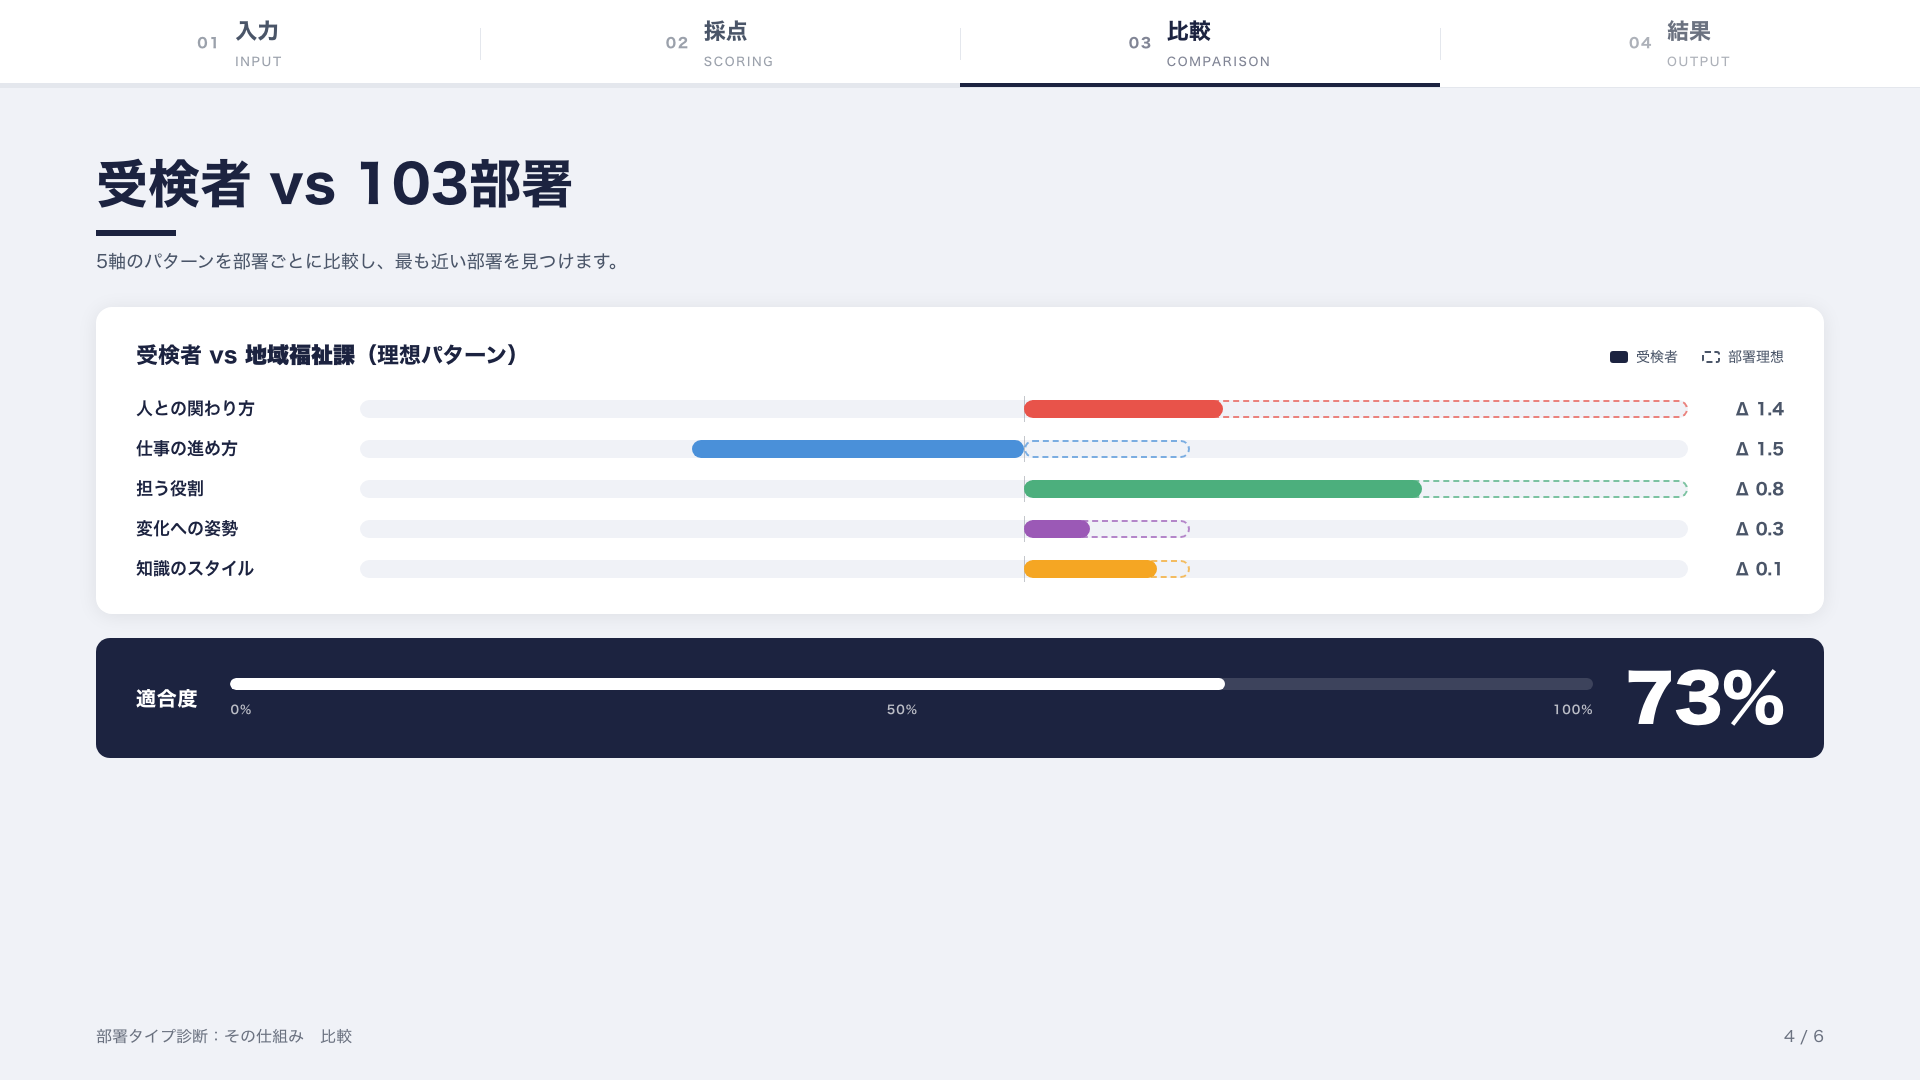
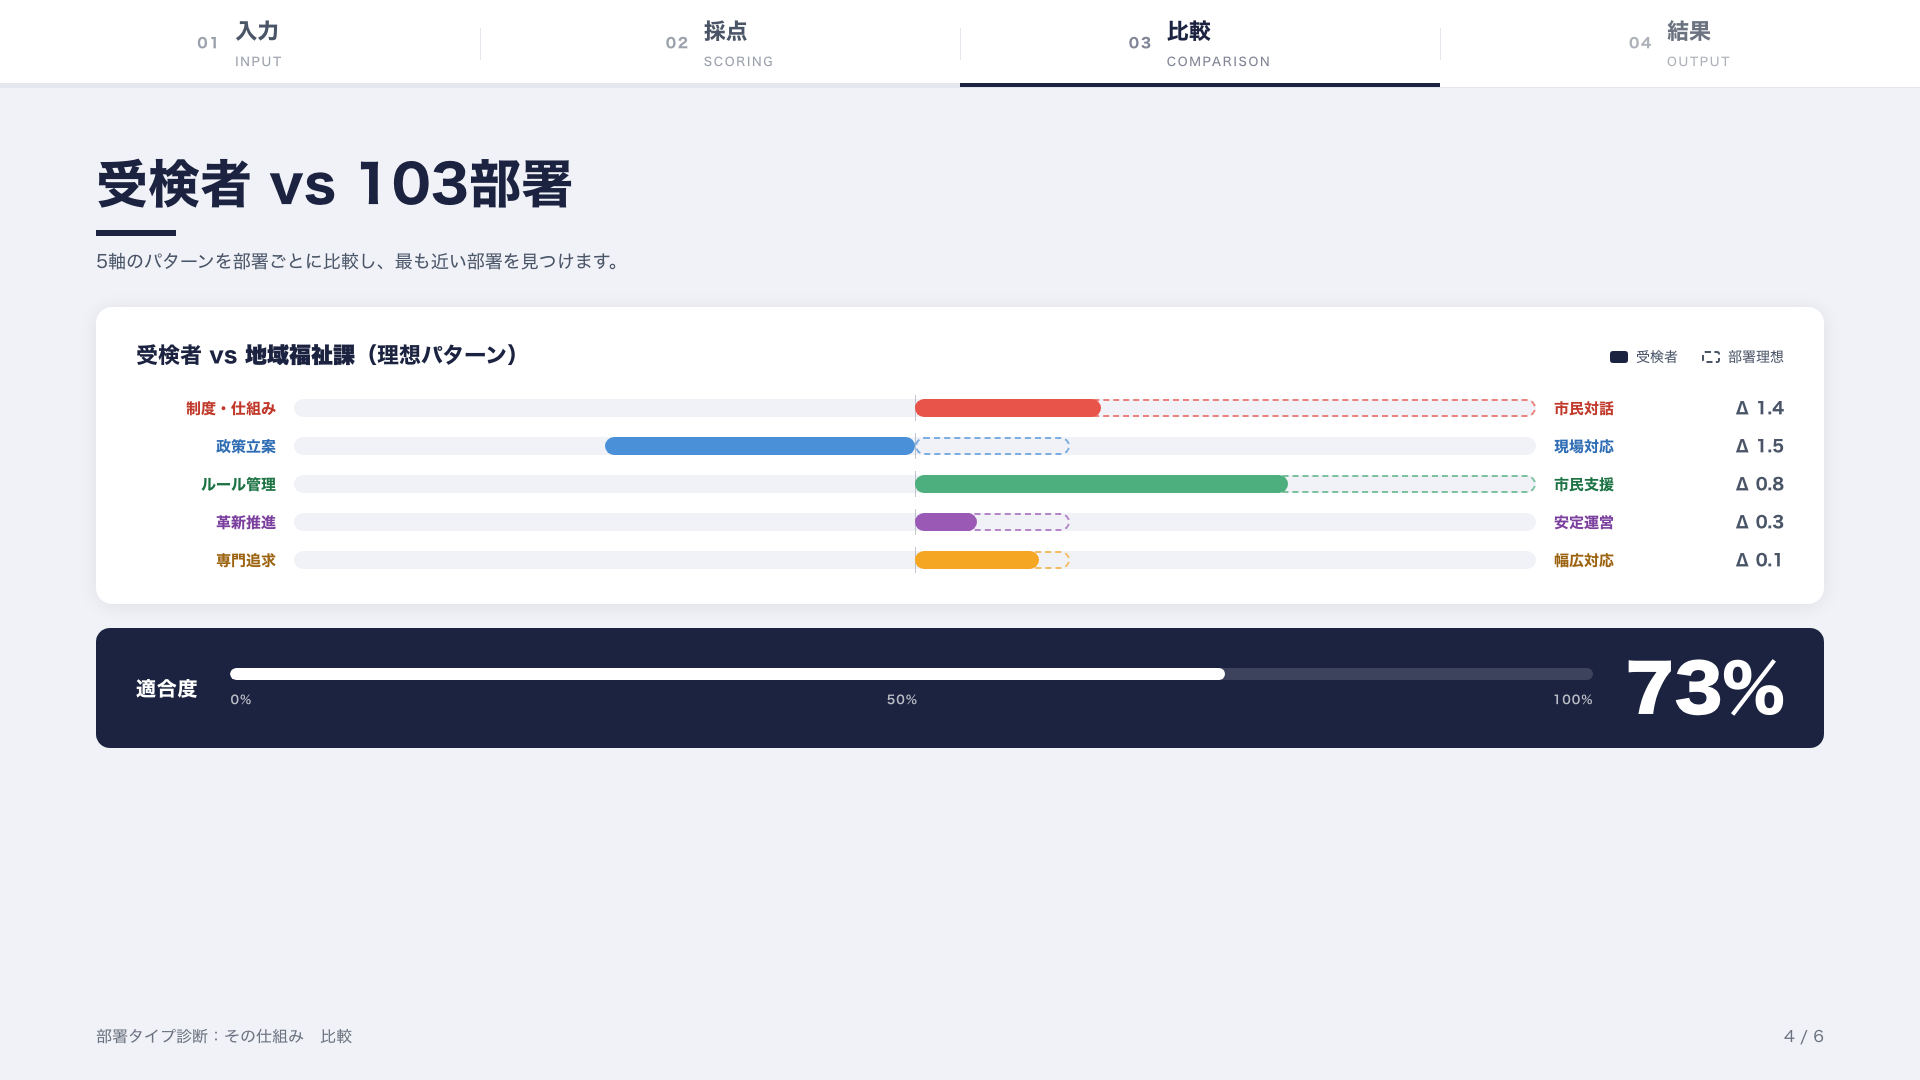
fix(presentation): slide 4 — replace axis name with left/right pole labels
Previously each row showed only the axis name (人との関わり方,
仕事の進め方, …), forcing the viewer to remember which direction
on the bar meant which pole. Replace with explicit pole labels on
both sides of the track so the bar's pull direction reads directly:

  制度・仕組み ── 市民対話   Δ 1.4
  政策立案    ── 現場対応   Δ 1.5
  ルール管理   ── 市民支援   Δ 0.8
  革新推進    ── 安定運営   Δ 0.3
  専門追求    ── 幅広対応   Δ 0.1

Pole labels colored with the axis's primary tone (right-aligned on
the lo side, left-aligned on the hi side) so each row's identity
sits in the labels, not in a separate axis-name column.

diff --git a/presentations/how-it-works/index.html b/presentations/how-it-works/index.html
@@ -685,18 +685,25 @@
   .s4-bars { display: flex; flex-direction: column; gap: 14px; }
   .s4-bar {
     display: grid;
-    grid-template-columns: 200px 1fr 72px;
-    gap: 24px; align-items: center;
+    grid-template-columns: 140px 1fr 140px 72px;
+    gap: 18px; align-items: center;
   }
   .s4-bar.A { color: var(--A-mid); }
   .s4-bar.B { color: var(--B-mid); }
   .s4-bar.C { color: var(--C-mid); }
   .s4-bar.D { color: var(--D-mid); }
   .s4-bar.E { color: var(--E-mid); }
-  .s4-bar .label {
-    font-size: 17px; font-weight: 600;
+  .s4-bar .pole {
+    font-size: 15px; font-weight: 700;
     color: var(--text);
   }
+  .s4-bar .pole.lo { text-align: right; }
+  .s4-bar .pole.hi { text-align: left; }
+  .s4-bar.A .pole { color: var(--A); }
+  .s4-bar.B .pole { color: var(--B); }
+  .s4-bar.C .pole { color: var(--C); }
+  .s4-bar.D .pole { color: var(--D); }
+  .s4-bar.E .pole { color: var(--E); }
   .s4-bar .track {
     position: relative;
     height: 18px;
@@ -1351,28 +1358,33 @@
           </div>
           <div class="s4-bars" id="s4-bars">
             <div class="s4-bar A" data-axis="A">
-              <span class="label">人との関わり方</span>
+              <span class="pole lo">制度・仕組み</span>
               <span class="track"><span class="fill-dept" data-bar="dept-A"></span><span class="fill-user" data-bar="user-A"></span></span>
+              <span class="pole hi">市民対話</span>
               <span class="delta" data-delta="A">Δ 1.4</span>
             </div>
             <div class="s4-bar B" data-axis="B">
-              <span class="label">仕事の進め方</span>
+              <span class="pole lo">政策立案</span>
               <span class="track"><span class="fill-dept" data-bar="dept-B"></span><span class="fill-user" data-bar="user-B"></span></span>
+              <span class="pole hi">現場対応</span>
               <span class="delta" data-delta="B">Δ 1.5</span>
             </div>
             <div class="s4-bar C" data-axis="C">
-              <span class="label">担う役割</span>
+              <span class="pole lo">ルール管理</span>
               <span class="track"><span class="fill-dept" data-bar="dept-C"></span><span class="fill-user" data-bar="user-C"></span></span>
+              <span class="pole hi">市民支援</span>
               <span class="delta" data-delta="C">Δ 0.8</span>
             </div>
             <div class="s4-bar D" data-axis="D">
-              <span class="label">変化への姿勢</span>
+              <span class="pole lo">革新推進</span>
               <span class="track"><span class="fill-dept" data-bar="dept-D"></span><span class="fill-user" data-bar="user-D"></span></span>
+              <span class="pole hi">安定運営</span>
               <span class="delta" data-delta="D">Δ 0.3</span>
             </div>
             <div class="s4-bar E" data-axis="E">
-              <span class="label">知識のスタイル</span>
+              <span class="pole lo">専門追求</span>
               <span class="track"><span class="fill-dept" data-bar="dept-E"></span><span class="fill-user" data-bar="user-E"></span></span>
+              <span class="pole hi">幅広対応</span>
               <span class="delta" data-delta="E">Δ 0.1</span>
             </div>
           </div>
@@ -1445,7 +1457,7 @@
 
         <div class="s5-card">
           <div class="s5-card-head">
-            <div class="s5-card-label">5軸プロファイル</div>
+            <div class="s5-card-label">プロファイル</div>
             <div class="s5-card-meta">
               <span class="s5-card-num">5軸</span>
               <span class="s5-card-note">／ あなたの傾向</span>
